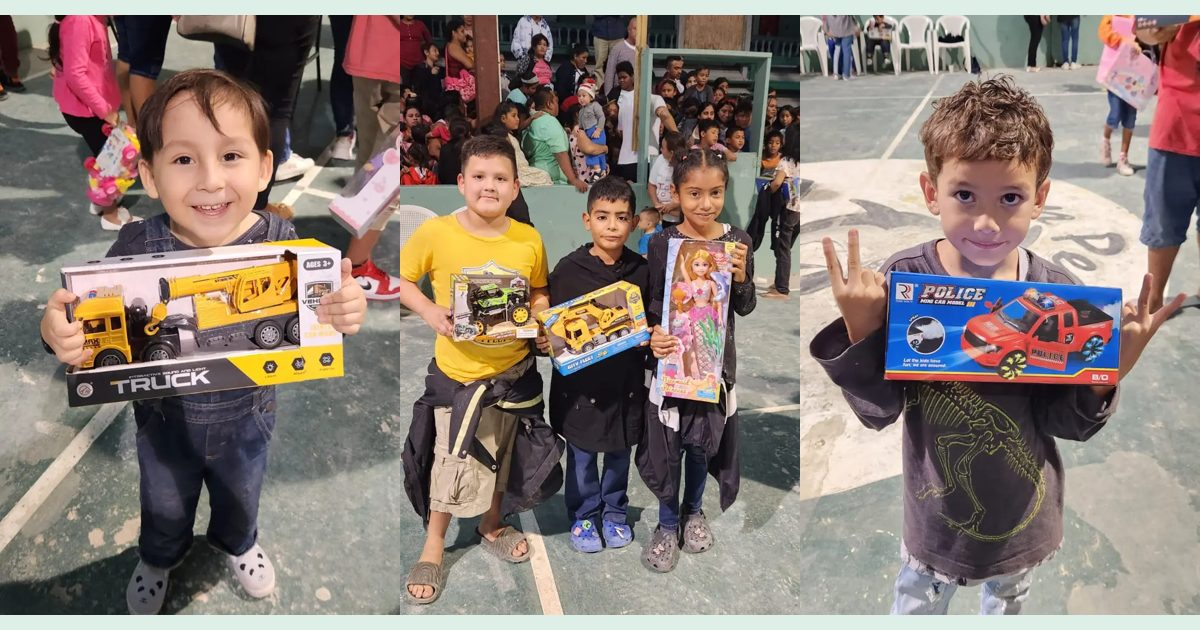
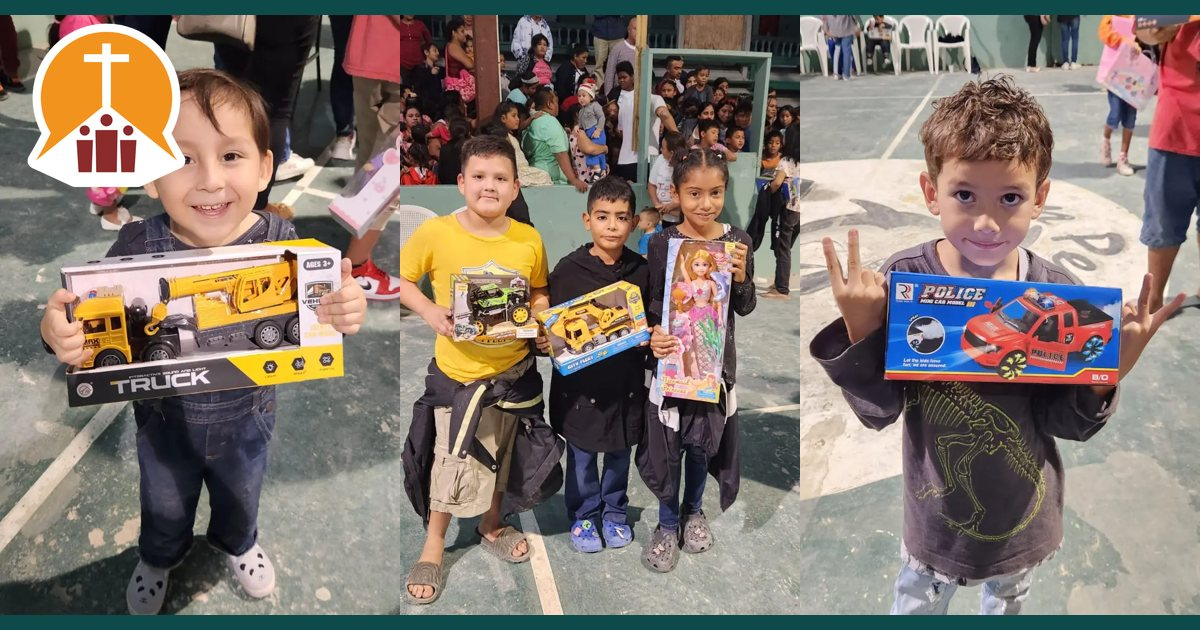
Bring in Living Word Church's brand
- Vector redraw of the church's logo (orange disc, cross on the church
  roof, three figures) from their own video artwork
- Logo lockups in the header, donate facts panel and footer, with the
  church name in Anton capitals to echo their title-card lettering
- Church orange for the hero subhead; logo as favicon and on the share
  image used by WhatsApp/Facebook link previews

Claude-Session: https://claude.ai/code/session_016H8s5SmvDPEgd5KkQRQBHr

Changed region(s): [[0.0, 0.0, 1.0, 0.3016], [0.0, 0.9651, 1.0, 1.0]]

diff --git a/index.html b/index.html
@@ -18,7 +18,7 @@
 <link rel="icon" href="/favicon.svg" type="image/svg+xml">
 <link rel="preconnect" href="https://fonts.googleapis.com">
 <link rel="preconnect" href="https://fonts.gstatic.com" crossorigin>
-<link href="https://fonts.googleapis.com/css2?family=Bricolage+Grotesque:opsz,wght@12..96,400..800&display=swap" rel="stylesheet">
+<link href="https://fonts.googleapis.com/css2?family=Anton&family=Bricolage+Grotesque:opsz,wght@12..96,400..800&display=swap" rel="stylesheet">
 <style>
 :root {
   --court: #DDEFE7;      /* painted court mint */
@@ -29,6 +29,8 @@
   --mist: #CFE3DD;       /* light text on teal */
   --ribbon: #C8232C;     /* Christmas red */
   --tinsel: #F6C445;     /* toy-box yellow */
+  --lwc-orange: #F2931E; /* Living Word Church logo orange */
+  --lwc-maroon: #8B2B2B; /* Living Word Church logo figures */
   --line: #FFFFFF;
   --gutter: clamp(16px, 4vw, 40px);
   --measure: 62ch;
@@ -67,9 +69,12 @@ a:hover { text-decoration-thickness: 2px; }
 .night :focus-visible, .film :focus-visible, .give :focus-visible { outline-color: var(--tinsel); }
 
 .top { display: flex; align-items: center; justify-content: space-between; gap: 16px; padding-block: 20px; }
-.brand { text-decoration: none; line-height: 1.15; }
-.brand strong { display: block; font-size: 1.125rem; font-weight: 750; letter-spacing: -0.01em; }
-.brand span { font-size: 0.875rem; color: var(--mist); }
+.wordmark { font-family: "Anton", "Bricolage Grotesque", sans-serif; font-weight: 400; text-transform: uppercase; letter-spacing: 0.02em; line-height: 1; }
+.brand { display: flex; align-items: center; gap: 14px; text-decoration: none; }
+.brand-logo { width: clamp(58px, 6.5vw, 84px); height: auto; flex: none; }
+.brand-text { display: flex; flex-direction: column; gap: 5px; }
+.brand-text strong { font-size: clamp(1.375rem, 2.6vw, 2rem); }
+.brand-text span { font-size: 0.875rem; color: var(--mist); }
 
 /* Buttons */
 .btn {
@@ -109,7 +114,7 @@ a:hover { text-decoration-thickness: 2px; }
 .subhead {
   margin: 18px 0 0; max-width: 28ch; text-wrap: balance;
   font-size: clamp(1.375rem, 2.5vw, 2rem); font-weight: 700; line-height: 1.15; letter-spacing: -0.01em;
-  color: var(--tinsel);
+  color: var(--lwc-orange);
 }
 .lead { margin: 24px 0 0; max-width: 52ch; font-size: clamp(1.125rem, 1.6vw, 1.3125rem); line-height: 1.55; color: var(--mist); }
 .actions { display: flex; flex-wrap: wrap; gap: 12px; margin-top: 28px; }
@@ -184,7 +189,11 @@ h2 {
   font-style: normal; font-weight: 600; line-height: 1.5;
 }
 .pending { margin: 0; padding: 18px 20px; border: 2px dashed rgba(255,255,255,.75); border-radius: 10px; font-weight: 600; }
-.facts { margin: 0; padding: 26px 26px 8px; background: rgba(0,0,0,.14); border-radius: 10px; }
+.facts { padding: 24px 26px 8px; background: rgba(0,0,0,.14); border-radius: 10px; }
+.facts dl { margin: 0; }
+.facts-brand { display: flex; align-items: center; gap: 12px; margin-bottom: 20px; }
+.facts-brand svg { width: 52px; height: auto; flex: none; }
+.facts-brand .wordmark { font-size: 1.5rem; }
 .facts dt { font-weight: 750; }
 .facts dd { margin: 2px 0 18px; color: #FBE3E3; }
 .give-foot { display: flex; justify-content: flex-end; margin-top: 24px; }
@@ -217,6 +226,9 @@ h2 {
 footer { background: var(--bleacher); color: var(--mist); padding-block: 44px; font-size: 0.9375rem; position: relative; z-index: 2; }
 footer p { margin: 0 0 6px; }
 footer strong { color: var(--paper); }
+.footer-grid { display: flex; align-items: center; gap: 20px; }
+.footer-logo { width: 84px; height: auto; flex: none; }
+.footer-wordmark { color: var(--paper); font-size: 1.75rem; margin-bottom: 10px; }
 
 @media (max-width: 760px) {
   .hero { grid-template-columns: 1fr; gap: 0; }
@@ -241,6 +253,24 @@ footer strong { color: var(--paper); }
         <path d="M-8.9-1.7-4.8-2.8-5.9-6.8M8.9 1.7 4.8 2.8 5.9 6.8"/>
         <path d="M-5.9 6.8-4.8 2.8-8.9 1.7M5.9-6.8 4.8-2.8 8.9-1.7"/>
       </g>
+    </symbol>
+    <!-- Living Word Church logo (vector redraw from the church's own artwork) -->
+    <symbol id="lwc-logo" viewBox="2 0 196 206">
+  <g fill="#fff" stroke="#fff" stroke-width="20" stroke-linejoin="round">
+    <path d="M14.0 168.0 Q 25 150 32.2 134.4 A80 80 0 1 1 167.8 134.4 Q 175 150 186.0 168.0 L100.0 99.0 Z"/><path d="M100.0 99.0 L14.0 168.0 L62 190 H138 L186.0 168.0 Z"/>
+  </g>
+  <path d="M14.0 168.0 Q 25 150 32.2 134.4 A80 80 0 1 1 167.8 134.4 Q 175 150 186.0 168.0 L100.0 99.0 Z" fill="#F2931E"/>
+  <path d="M100.0 99.0 L14.0 168.0 L62 190 H138 L186.0 168.0 Z" fill="#fff"/>
+  <rect x="94.7" y="26" width="10.6" height="76" fill="#fff"/>
+  <rect x="72.5" y="39" width="55" height="9.5" fill="#fff"/>
+  <g fill="#8B2B2B">
+    <circle cx="100" cy="119" r="7.4"/>
+    <path d="M86.5 131 H113.5 L112.5 182 H87.5 Z"/>
+    <circle cx="73.5" cy="131.5" r="6.2"/>
+    <path d="M63.5 143 H83.5 L82 182 H66 Z"/>
+    <circle cx="126.5" cy="131.5" r="6.2"/>
+    <path d="M116.5 143 H136.5 L134 182 H118 Z"/>
+  </g>
     </symbol>
     <!-- Original Santa bust, used in the hero and beside the timeline -->
     <symbol id="santa" viewBox="0 0 240 260">
@@ -296,8 +326,8 @@ footer strong { color: var(--paper); }
 
   <header class="wrap top">
     <a class="brand" href="#top">
-      <strong>Living Word Church</strong>
-      <span>San Pedro, Ambergris Caye, Belize</span>
+      <svg class="brand-logo" viewBox="2 0 196 206" aria-hidden="true"><use href="#lwc-logo"/></svg>
+      <span class="brand-text"><strong class="wordmark">Living Word Church</strong><span>San Pedro, Ambergris Caye, Belize</span></span>
     </a>
   </header>
 
@@ -529,14 +559,20 @@ footer strong { color: var(--paper); }
         </address>
       </div>
     </div>
-    <dl class="facts">
+    <div class="facts">
+      <div class="facts-brand">
+        <svg viewBox="2 0 196 206" aria-hidden="true"><use href="#lwc-logo"/></svg>
+        <span class="wordmark">Living Word Church</span>
+      </div>
+      <dl>
       <dt>Who runs the outreach</dt>
-      <dd>Living Word Church, Princess Drive, San Pedro Town, Ambergris Caye, Belize, led by Pastors Ian and Lourdes Zaldivar. Visit the church's <a href="https://livingwordchurchbelize.org/" target="_blank" rel="noopener">website</a> or <a href="https://www.facebook.com/livingwordchurchbelize/" target="_blank" rel="noopener">Facebook page</a>.</dd>
+      <dd>Based on Princess Drive, San Pedro Town, Ambergris Caye, Belize, and led by Pastors Ian and Lourdes Zaldivar. Visit the church's <a href="https://livingwordchurchbelize.org/" target="_blank" rel="noopener">website</a> or <a href="https://www.facebook.com/livingwordchurchbelize/" target="_blank" rel="noopener">Facebook page</a>.</dd>
       <dt>Where donations go</dt>
       <dd>Crypto donations go to a wallet that a volunteer manages on the church's behalf, for the Christmas Toy Campaign 2026. Checks go to Friends of the Living Word Church, a US charity that supports the church.</dd>
       <dt>When it happens</dt>
       <dd>Grocery deliveries and the toy giveaway take place in the days before Christmas.</dd>
-    </dl>
+      </dl>
+    </div>
   </div>
   <div class="wrap give-foot">
     <svg class="reindeer-hat" viewBox="0 0 240 260" aria-hidden="true">
@@ -566,9 +602,13 @@ footer strong { color: var(--paper); }
 </dialog>
 
 <footer>
-  <div class="wrap">
-    <p><strong>Living Word Church</strong>, Princess Drive, San Pedro Town, Ambergris Caye, Belize. <a href="https://livingwordchurchbelize.org/" target="_blank" rel="noopener">livingwordchurchbelize.org</a> and <a href="https://www.facebook.com/livingwordchurchbelize/" target="_blank" rel="noopener">Facebook</a></p>
+  <div class="wrap footer-grid">
+    <svg class="footer-logo" viewBox="2 0 196 206" aria-hidden="true"><use href="#lwc-logo"/></svg>
+    <div>
+    <p class="wordmark footer-wordmark">Living Word Church</p>
+    <p>Princess Drive, San Pedro Town, Ambergris Caye, Belize. <a href="https://livingwordchurchbelize.org/" target="_blank" rel="noopener">livingwordchurchbelize.org</a> and <a href="https://www.facebook.com/livingwordchurchbelize/" target="_blank" rel="noopener">Facebook</a></p>
     <p>Crypto donations through <a href="https://nicky.me" target="_blank" rel="noopener">Nicky</a>.</p>
+    </div>
   </div>
 </footer>
 

diff --git a/README.md b/README.md
@@ -19,6 +19,6 @@ While it is empty, the page shows "Crypto donations open shortly" and the donate
 - `index.html`: the whole page (markup, styles, the one script above)
 - `media/`: photos (WebP, 480 and 739 px wide), video stills, the outreach video (H.264, 480p, title cards trimmed) and the share image
 - `vercel.json`: cache headers for media and basic security headers
-- `favicon.svg`: gift icon
+- `favicon.svg` and `media/lwc-logo.svg`: Living Word Church logo (vector redraw from the church's video artwork; replace with the official file when available)
 
 No build step. Vercel serves the folder as-is; every push to `main` redeploys.
